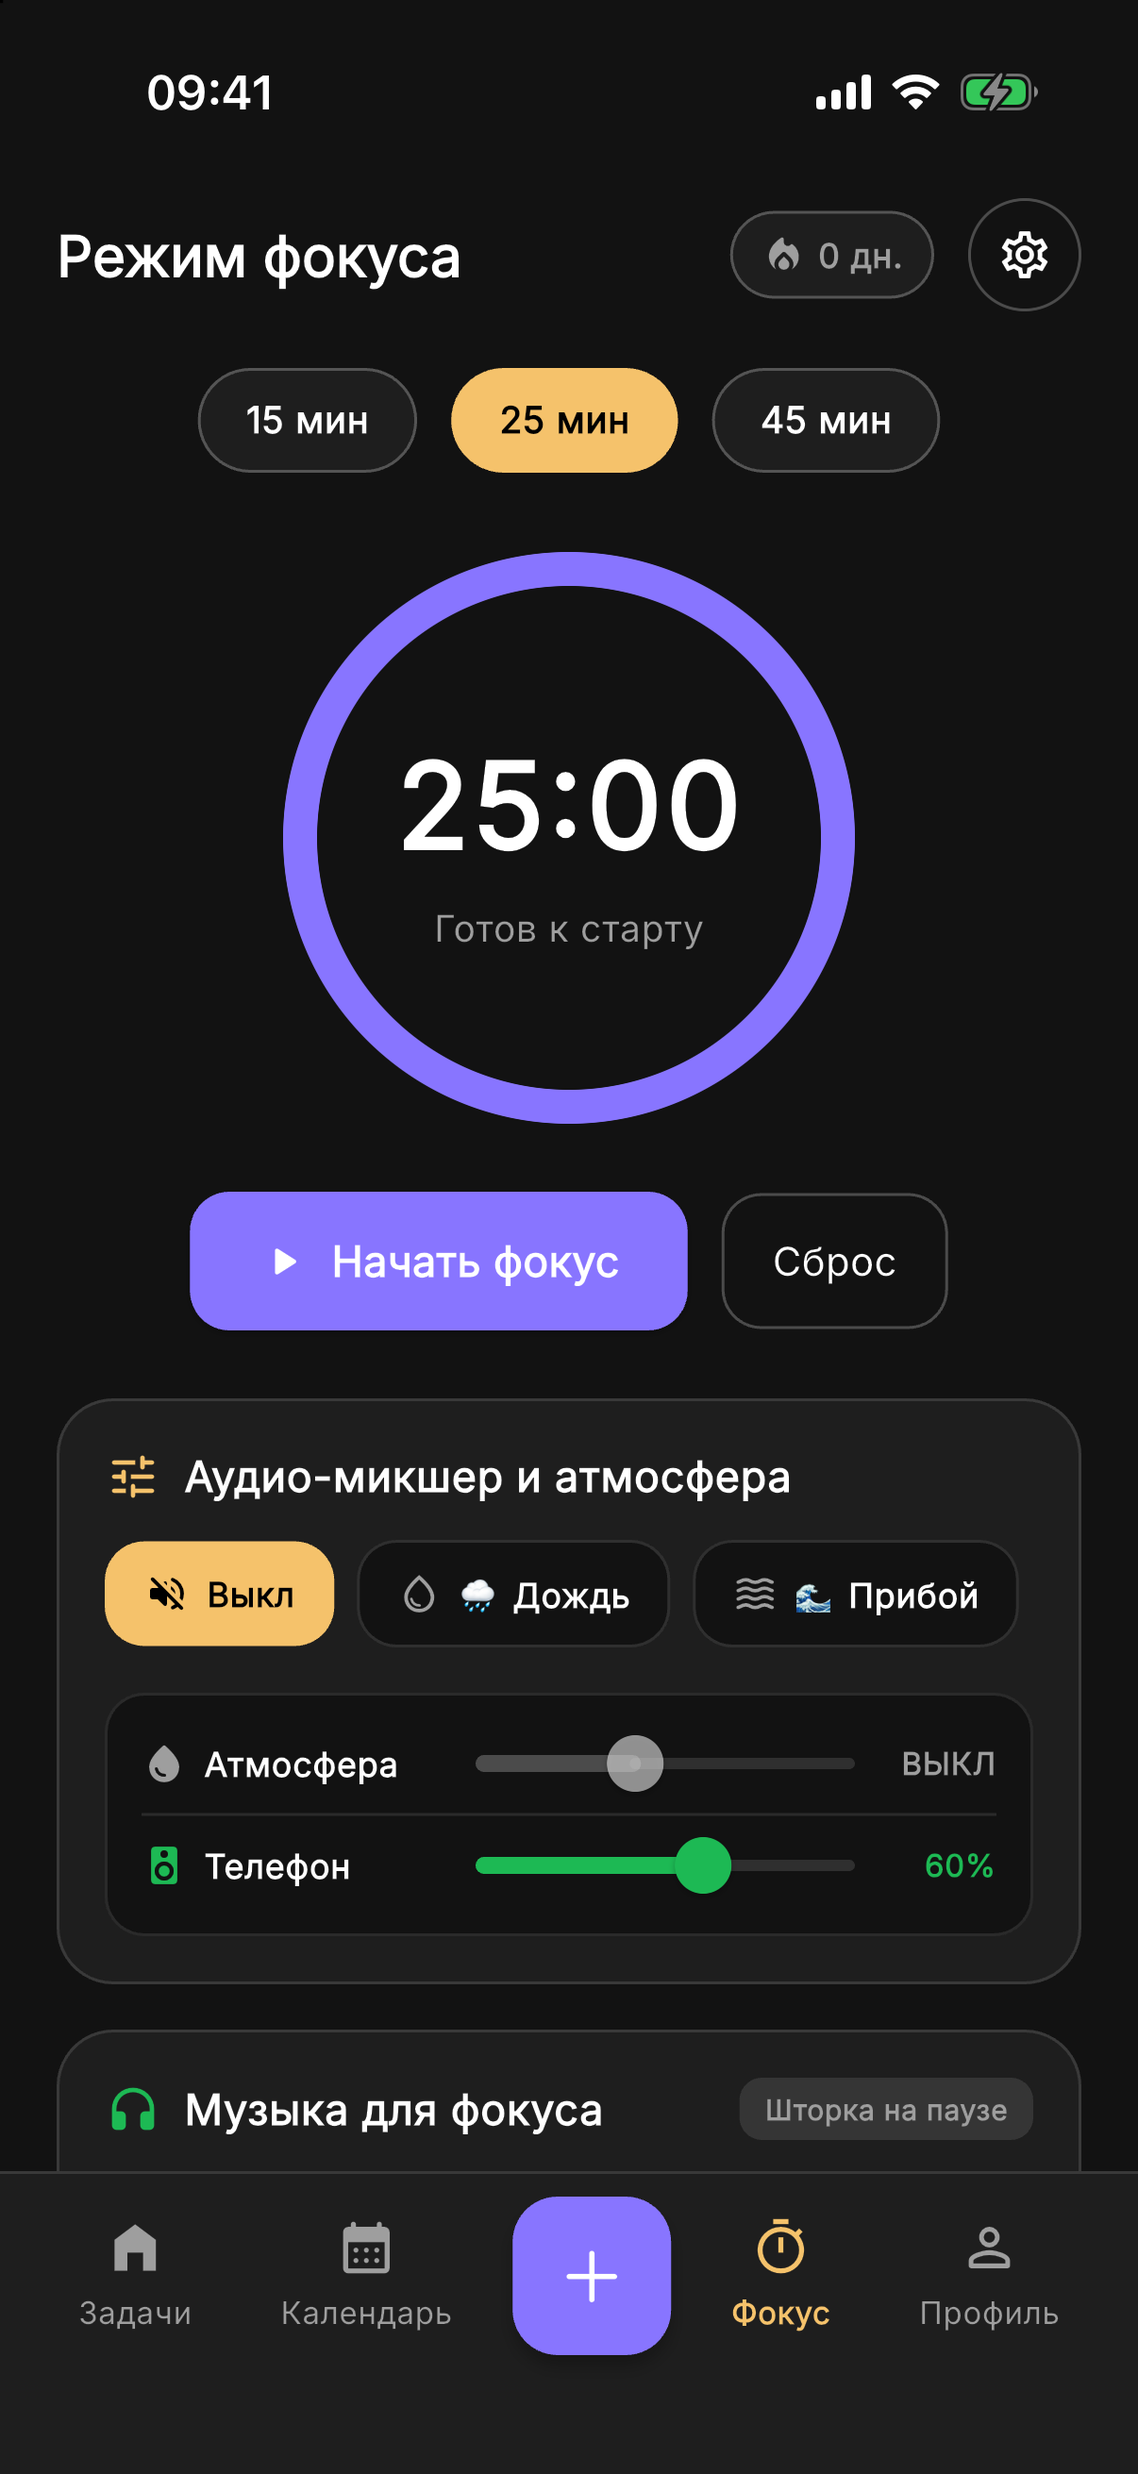
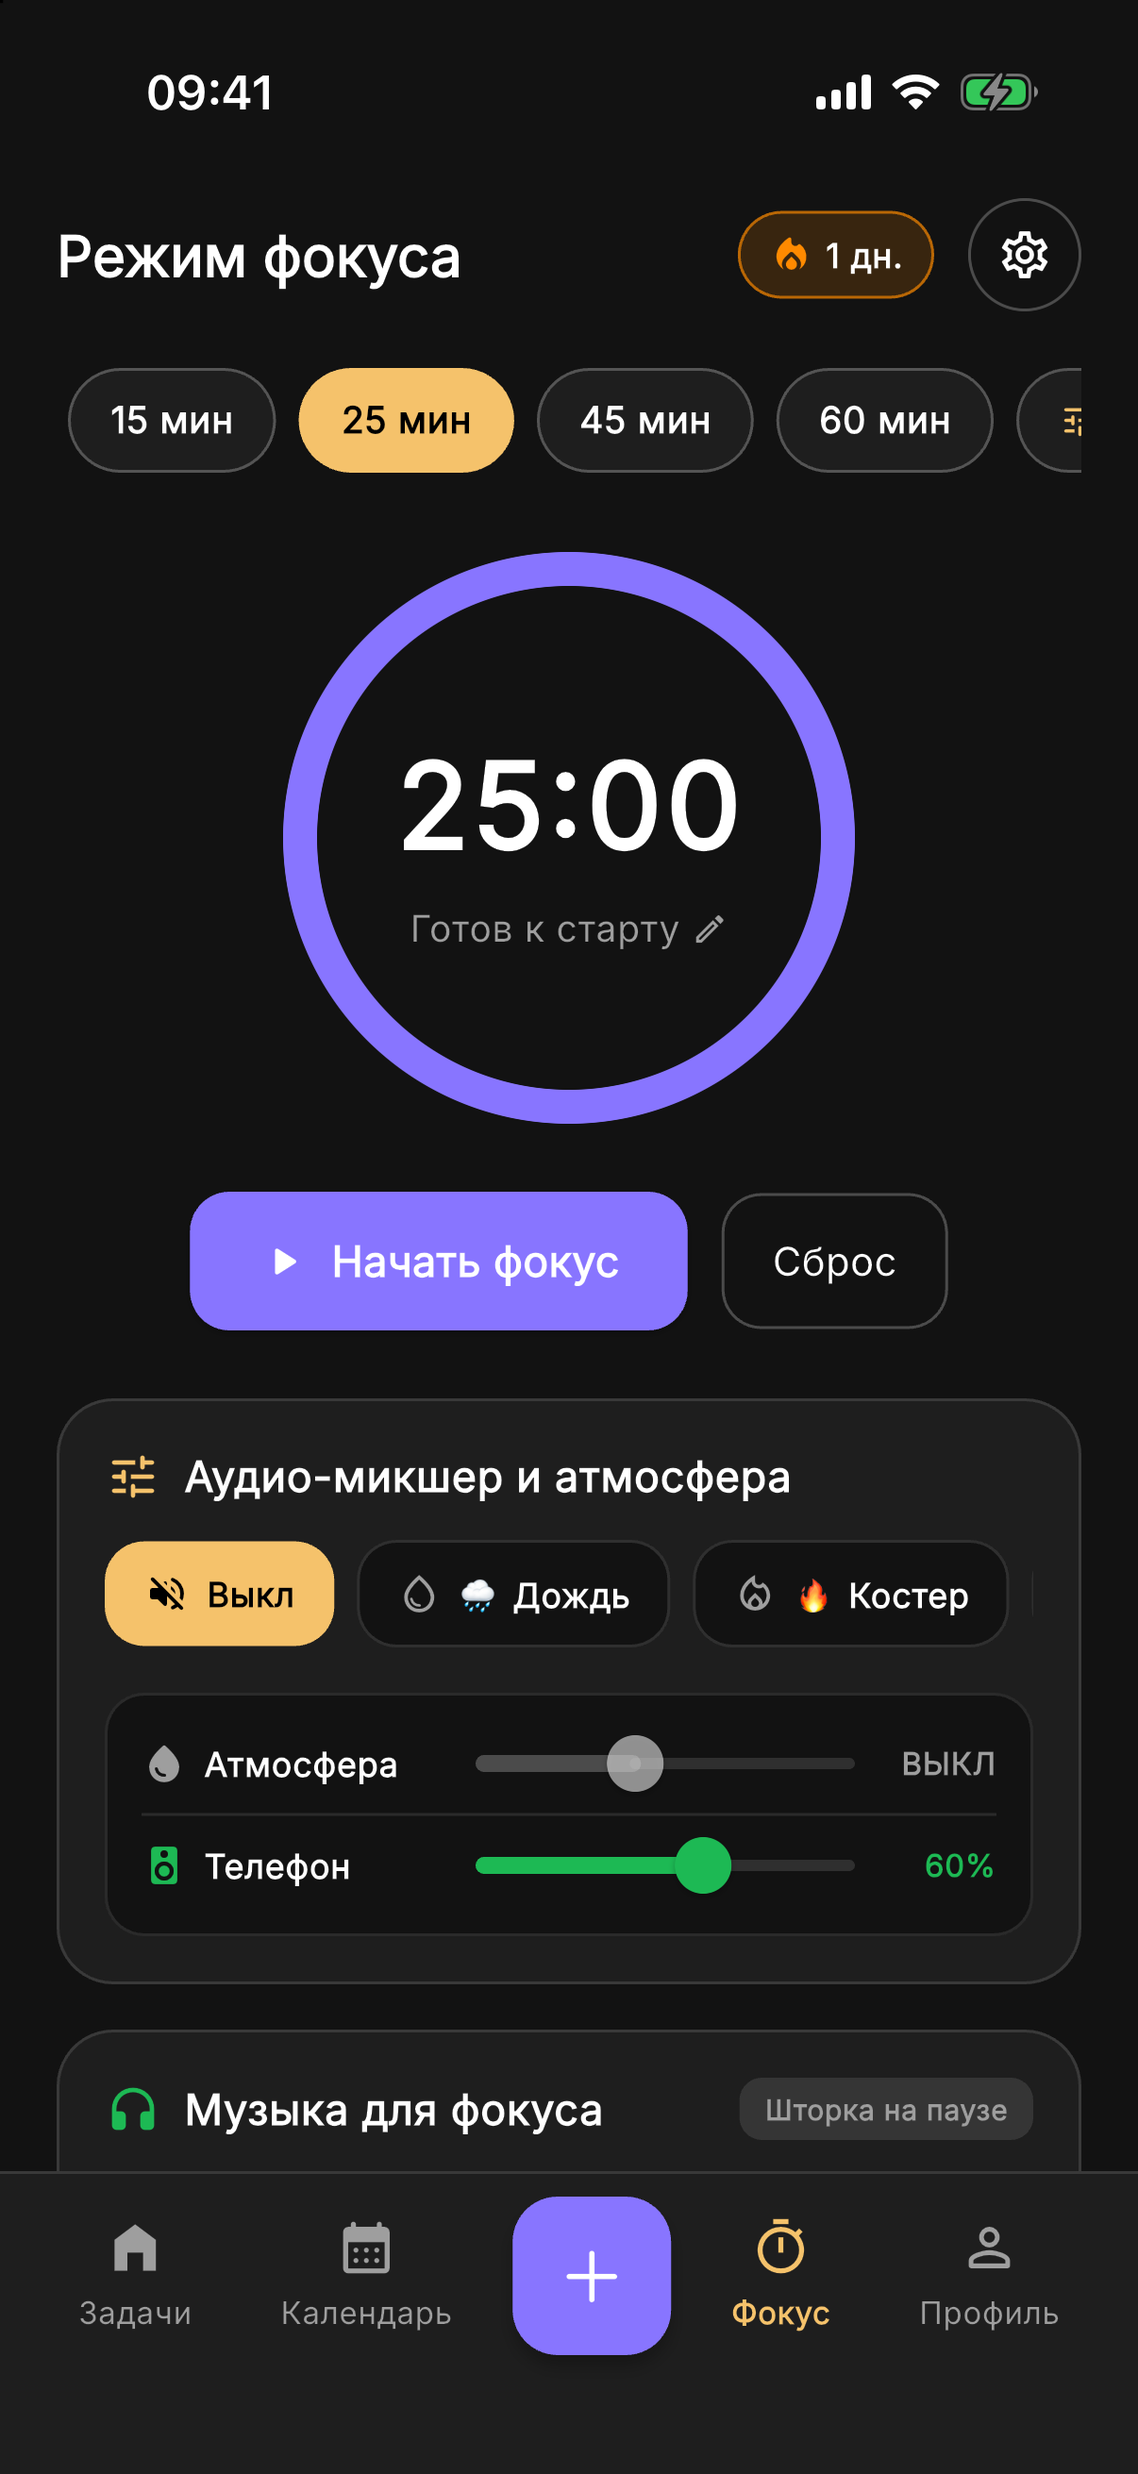
Update Todo project with WidgetKit, Gemini AI, Heatmap, and Offline Sync

diff --git a/todo.html b/todo.html
@@ -4,13 +4,13 @@
 <meta charset="utf-8">
 <meta name="viewport" content="width=device-width, initial-scale=1, viewport-fit=cover">
 <title>TodoApp — Менеджер задач на Flutter · helltrilla</title>
-<meta name="description" content="TodoApp — мобильное приложение на Flutter: менеджер задач, категории, подзадачи, таймер фокусировки и Supabase.">
+<meta name="description" content="TodoApp — мощный менеджер задач на Flutter: PWA, виджеты iOS 17, Gemini AI, оффлайн-синхронизация с Supabase и аналитика продуктивности.">
 <link rel="icon" href="/favicon.svg" type="image/svg+xml">
 <link rel="icon" href="/favicon.png" type="image/png" sizes="64x64">
 <link rel="apple-touch-icon" href="/apple-touch-icon.png">
 <meta property="og:type" content="article">
 <meta property="og:title" content="TodoApp — Менеджер задач на Flutter">
-<meta property="og:description" content="Категории с иконками, подзадачи, Pomodoro-таймер и авторизация через Supabase OTP.">
+<meta property="og:description" content="PWA, iOS-виджеты, Gemini AI, NLP, оффлайн-синхронизация, бэкапы через Isolates и тепловая карта продуктивности.">
 <meta property="og:url" content="https://helltrilla.github.io/todo.html">
 <meta property="og:image" content="https://helltrilla.github.io/og-image.png">
 <meta name="twitter:card" content="summary_large_image">
@@ -63,67 +63,70 @@ footer{margin-top:80px;border-top:1px solid var(--line);padding:28px 0 40px;colo
 <main>
 <span class="tag">готов · обновляется</span>
 <h1>TodoApp</h1>
-<p class="lead">Современный менеджер задач на Flutter: настраиваемые чек-листы, Pomodoro-таймер с генератором фонового шума, 4 темы оформления (включая AMOLED), мгновенная локализация на 5 языков и надёжная авторизация через Supabase OTP.</p>
+<p class="lead">Многофункциональный менеджер задач: PWA, виджеты iOS 17 (WidgetKit), распознавание речи с NLP и Gemini AI, тепловая карта продуктивности и двухсторонняя оффлайн-синхронизация через Supabase.</p>
 <div class="btns">
   <a class="btn main" href="https://github.com/helltrilla/todo">Код на GitHub</a>
   <a class="btn" href="#features">Возможности</a>
 </div>
 <div class="facts">
-  <div><b>Платформа</b>iOS, Android</div>
-  <div><b>Стек</b>Flutter 3 · Dart 3</div>
-  <div><b>Бэкенд</b>Supabase</div>
-  <div><b>Архитектура</b>Clean Architecture</div>
+  <div><b>Платформы</b>iOS, Android, Web (PWA)</div>
+  <div><b>Стек</b>Flutter 3.x · Dart 3.11+</div>
+  <div><b>Бэкенд</b>Supabase PostgREST</div>
+  <div><b>AI / NLP</b>Gemini Flash / RegExp</div>
 </div>
 
 <h2>Скриншоты</h2>
 <div class="shots">
-  <figure><img src="img/todo/home_screen.png" data-f="home_screen.png" alt="Главный экран" width="202" height="440" loading="lazy"><figcaption>Главный экран</figcaption></figure>
-  <figure><img src="img/todo/focus_screen.png" data-f="focus_screen.png" alt="Фокус и аудио-хаб" width="202" height="440" loading="lazy"><figcaption>Фокус и аудио-хаб</figcaption></figure>
-  <figure><img src="img/todo/settings_screen.png" data-f="settings_screen.png" alt="Профиль и настройки" width="202" height="440" loading="lazy"><figcaption>Настройки</figcaption></figure>
-  <figure><img src="img/todo/onboarding_screen.png" data-f="onboarding_screen.png" alt="Онбординг" width="202" height="440" loading="lazy"><figcaption>Онбординг</figcaption></figure>
-  <figure><img src="img/todo/welcome_screen.png" data-f="welcome_screen.png" alt="Авторизация" width="202" height="440" loading="lazy"><figcaption>Авторизация</figcaption></figure>
+  <figure><img src="img/todo/home_screen.png" data-f="home_screen.png" alt="Главный экран" width="202" height="440" loading="lazy"><figcaption>Задачи и чек-листы</figcaption></figure>
+  <figure><img src="img/todo/profile_screen.png" data-f="profile_screen.png" alt="Аналитика и профиль" width="202" height="440" loading="lazy"><figcaption>Дашборд и Heatmap</figcaption></figure>
+  <figure><img src="img/todo/focus_music_screen.png" data-f="focus_music_screen.png" alt="Музыкальный хаб" width="202" height="440" loading="lazy"><figcaption>Музыкальный хаб</figcaption></figure>
+  <figure><img src="img/todo/focus_screen.png" data-f="focus_screen.png" alt="Фокус-студия" width="202" height="440" loading="lazy"><figcaption>Таймер фокуса</figcaption></figure>
+  <figure><img src="img/todo/settings_screen.png" data-f="settings_screen.png" alt="Настройки" width="202" height="440" loading="lazy"><figcaption>Темы и локализация</figcaption></figure>
 </div>
 
 <h2 id="features">Возможности</h2>
 <div class="grid">
-  <article class="card"><h3>Локализация на 5 языков</h3><ul>
-    <li>Поддержка русского, английского, немецкого, французского и сербского языков</li>
-    <li>Мгновенное переключение без перезапуска приложения</li>
-    <li>Правильная плюрализация слов (1 задача, 2 задачи, 5 задач)</li></ul></article>
-  <article class="card"><h3>4 темы оформления</h3><ul>
-    <li>Тёмная, Светлая, Системная</li>
-    <li>AMOLED Midnight (глубокий чёрный #000000) для экономии батареи</li></ul></article>
-  <article class="card"><h3>Фокус-студия и музыкальный хаб</h3><ul>
-    <li>Генератор фонового шума (дождь, океан, кафе, винил) с микшером</li>
-    <li>Встроенный музыкальный плеер с подгрузкой обложек</li>
-    <li>Интеграция с экраном блокировки (Now Playing)</li></ul></article>
-  <article class="card"><h3>Умные задачи и подзадачи</h3><ul>
-    <li>Создание подзадач внутри любой задачи с интерактивными чекбоксами на карточке</li>
-    <li>Бейдж прогресса (напр. 2/3)</li>
-    <li>Автоматическое завершение задачи при выполнении всех подзадач</li></ul></article>
-  <article class="card"><h3>Кастомные категории</h3><ul>
-    <li>Конструктор категорий с выбором из 12 тематических иконок и 10 цветовых палитр</li>
-    <li>Глобальная категория «Общее» с золотой подсветкой для общих задач</li></ul></article>
-  <article class="card"><h3>Двухрежимная авторизация</h3><ul>
-    <li>Вход по Email с настоящим 6-значным кодом (через Supabase Auth REST API)</li>
-    <li>Внутренний профиль (логин/пароль) с локальным хранением для офлайн-работы</li></ul></article>
-  <article class="card"><h3>Таймер фокусировки</h3><ul>
-    <li>Встроенный Pomodoro-таймер для концентрации над задачами</li></ul></article>
+  <article class="card"><h3>Дашборд продуктивности</h3><ul>
+    <li>120-дневная Heatmap-матрица (как в GitHub) с 4 уровнями активности</li>
+    <li>Круговая диаграмма (Donut Chart) приоритетов и категорий</li>
+    <li>Стрик-трекер: отслеживание серии дней без пропусков (Streak)</li></ul></article>
+  <article class="card"><h3>Интерактивные виджеты iOS 17</h3><ul>
+    <li>Нативные виджеты на Swift/SwiftUI (WidgetKit + App Groups)</li>
+    <li>Выполнение задач и запуск таймера прямо с Home/Lock Screen</li></ul></article>
+  <article class="card"><h3>Речь в текст + AI и NLP</h3><ul>
+    <li>Движок NLP парсит сроки («завтра в 18:00») и приоритеты («срочно»)</li>
+    <li>Gemini Flash API для сложных ИИ-запросов и анализа намерений</li></ul></article>
+  <article class="card"><h3>Двухсторонняя Offline-First синхронизация</h3><ul>
+    <li>Локальная работа с нулевой задержкой</li>
+    <li>Синхронизация с Supabase PostgREST в фоне (с поддержкой Pull-to-Refresh)</li>
+    <li>Резолв конфликтов (LWW) по времени изменения (updatedAt)</li></ul></article>
+  <article class="card"><h3>Экспорт данных через Isolates</h3><ul>
+    <li>Тяжелая сериализация данных вынесена в фоновые изоляты (Dart Isolates)</li>
+    <li>Экспорт в форматы JSON, CSV (для Excel/Google Sheets) и Markdown</li></ul></article>
+  <article class="card"><h3>Фокус-студия и аудиоплеер</h3><ul>
+    <li>Генератор фонового шума (дождь, океан, кафе) с микшером громкости</li>
+    <li>Интеграция с экраном блокировки iOS (Control Center Now Playing)</li>
+    <li>Pomodoro-таймер с настройкой от 1 до 120 минут</li></ul></article>
+  <article class="card"><h3>Кроссплатформенность и темы</h3><ul>
+    <li>Сборка под Web (PWA) и мобильные устройства</li>
+    <li>4 темы оформления, включая глубокий AMOLED Midnight (#000000)</li>
+    <li>Мгновенная локализация на 5 языков (RU, EN, DE, FR, SR)</li></ul></article>
 </div>
 
 <h2>Архитектура</h2>
-<p class="n" style="margin-bottom:20px">Приложение построено по принципам Feature-First Clean Architecture, разделяя логику, данные и UI.</p>
+<p class="n" style="margin-bottom:20px">Проект построен по подходу Feature-First Clean Architecture. Реализована строгая изоляция слоёв, RLS-политики на стороне базы данных Supabase и эффективная работа с кэшем.</p>
 
 <h2>Стек</h2>
-<ul class="chips"><li>Flutter</li><li>Dart</li><li>Provider</li><li>go_router</li><li>Supabase</li><li>flutter_localizations</li><li>shared_preferences</li></ul>
+<ul class="chips"><li>Flutter</li><li>Dart</li><li>Provider</li><li>Supabase</li><li>WidgetKit (Swift)</li><li>Gemini API</li><li>Isolates</li><li>flutter_localizations</li></ul>
 
 <h2>Запуск</h2>
 <pre>git clone https://github.com/helltrilla/todo.git
 cd todo
 flutter pub get
-flutter analyze
-flutter test
-flutter run</pre>
+# Запуск на устройстве:
+flutter run
+# Запуск в браузере (Web PWA):
+flutter run -d chrome</pre>
 <p class="note">Необходим Flutter SDK 3.10 или новее.</p>
 </main>
 

diff --git a/index.html b/index.html
@@ -131,8 +131,8 @@ footer{border-top:1px solid var(--line);padding:28px 0;color:var(--mute);font-si
       </article>
       <article class="stop">
         <h4><a href="todo.html">Todo</a> <span class="tag">готов · обновляется</span></h4>
-        <p>Менеджер задач на Flutter: чек-листы, Pomodoro-таймер с генератором фонового шума, 4 темы оформления (включая AMOLED), локализация на 5 языков и вход через Supabase.</p>
-        <ul class="chips"><li>Flutter</li><li>Provider</li><li>Supabase</li><li>Localization</li><li>Themes</li></ul>
+        <p>Мощный таск-трекер: виджеты iOS 17, голосовой ввод с NLP и Gemini AI, оффлайн-синхронизация, тепловая карта продуктивности и фокус-студия.</p>
+        <ul class="chips"><li>Flutter</li><li>Gemini API</li><li>Supabase</li><li>WidgetKit</li><li>PWA</li></ul>
         <a class="more" href="todo.html">Читать подробнее</a> · <a class="more" href="https://github.com/helltrilla/todo">Код на GitHub</a>
       </article>
     </div>
